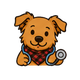
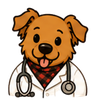
agregar 26 PNG Chiqui, tarjeta idea fija en Chiqui Tips

diff --git a/components/ChiquiTeCuenta.tsx b/components/ChiquiTeCuenta.tsx
@@ -169,6 +169,16 @@ export default function ChiquiTeCuenta({ especie }: Props) {
           )
         })}
       </div>
+
+      {/* Tarjeta fija — Chiqui idea */}
+      <div className="mt-2.5 rounded-2xl p-3 flex items-center gap-3"
+        style={{ background: '#FFFCF8', border: '1.5px solid #EEE2D4' }}>
+        <img src="/chiqui/chiqui_idea.png" alt="Chiqui idea" className="w-12 h-12 object-contain flex-shrink-0" />
+        <div>
+          <p className="font-bold text-xs text-[#3D2B1F] mb-0.5">¿Sabías que puedes registrar todo esto en CHIQUI?</p>
+          <p className="text-[10px] text-[#8A7560] leading-relaxed">Cada observación que registras hoy puede ser clave para tu veterinario mañana.</p>
+        </div>
+      </div>
     </div>
   )
 }